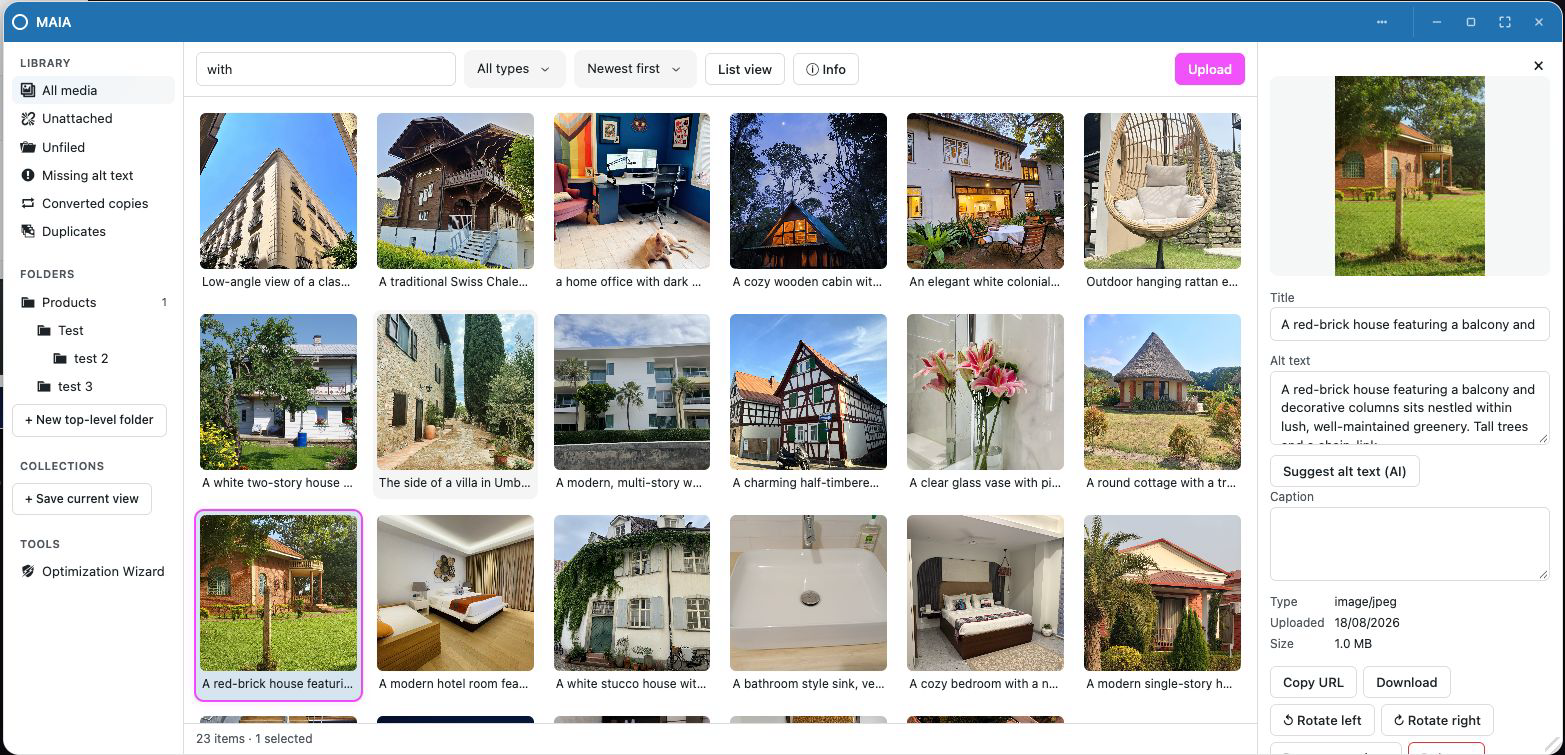
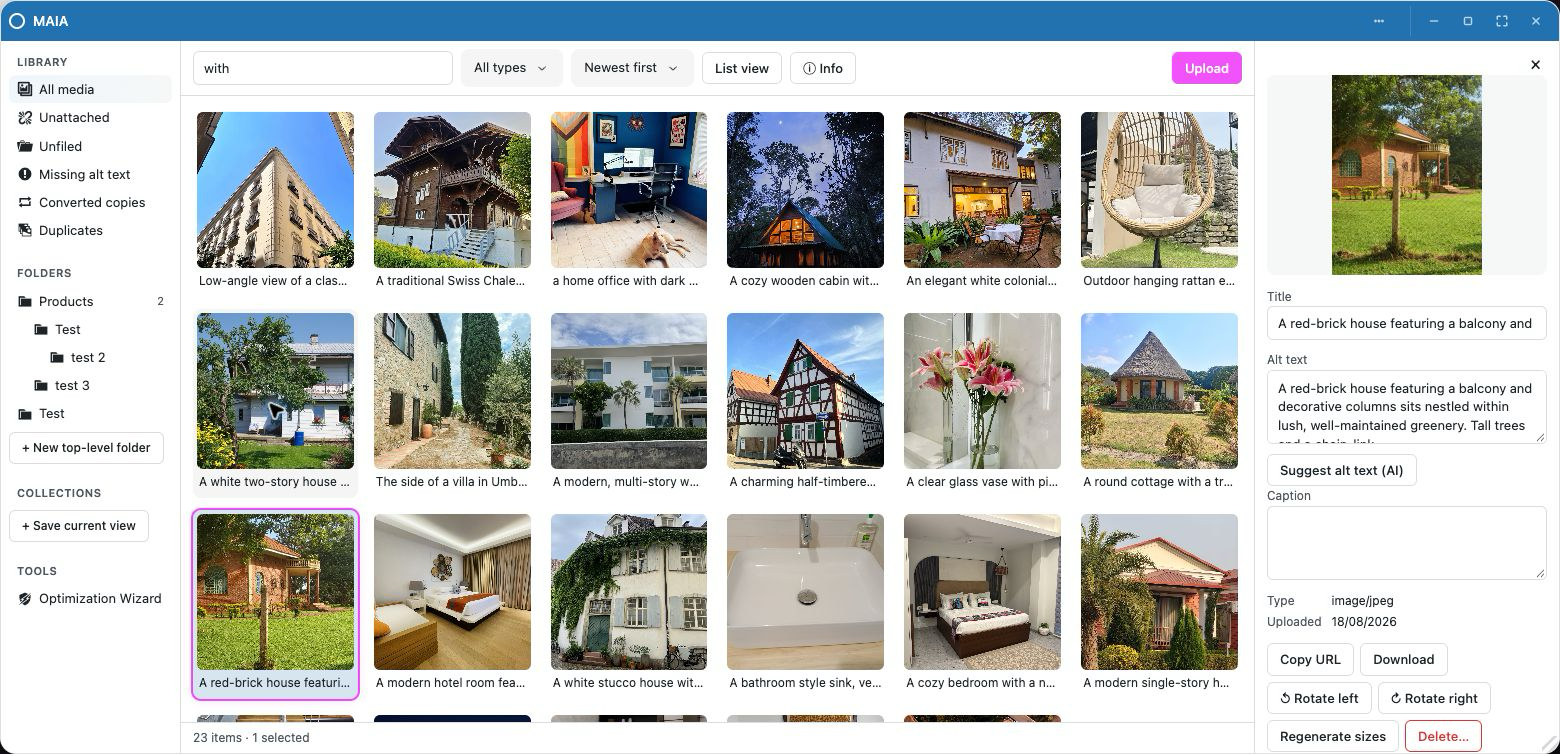
Count all readable folder media and simplify the README

diff --git a/tests/phpunit/tests/usageAndFolders.php b/tests/phpunit/tests/usageAndFolders.php
@@ -131,6 +131,81 @@ class Tests_ATME_Usage_And_Folders extends WP_UnitTestCase {
 	}
 
 	/**
+	 * @covers ::atme_folder_tree
+	 */
+	public function test_folder_counts_match_media_for_unattached_and_draft_parent_files() {
+		$folder = atme_create_folder( 'Products' );
+		foreach ( array( 0, self::factory()->post->create( array( 'post_status' => 'publish' ) ), self::factory()->post->create( array( 'post_status' => 'draft' ) ) ) as $parent ) {
+			$attachment = self::factory()->attachment->create( array( 'post_parent' => $parent, 'post_status' => 'inherit' ) );
+			atme_file_into_folder( array( $attachment ), $folder );
+		}
+		$request = new WP_REST_Request( 'GET', '/wp/v2/media' );
+		$request->set_param( 'atme-folders', $folder );
+		$response = rest_do_request( $request );
+		$this->assertSame( 200, $response->get_status() );
+		$this->assertCount( 3, $response->get_data() );
+		$rows = array_column( atme_folder_tree(), null, 'id' );
+		$this->assertSame( count( $response->get_data() ), $rows[ $folder ]['count'] );
+	}
+
+	/**
+	 * @covers ::atme_folder_tree
+	 */
+	public function test_folder_counts_are_direct_and_refresh_after_membership_and_status_changes() {
+		$folder = atme_create_folder( 'Products' );
+		$child  = atme_create_folder( 'Summer', $folder );
+		$empty  = atme_create_folder( 'Empty' );
+		$first  = self::factory()->attachment->create( array( 'post_status' => 'inherit' ) );
+		$second = self::factory()->attachment->create( array( 'post_status' => 'inherit' ) );
+		atme_file_into_folder( array( $first ), $folder );
+		atme_file_into_folder( array( $first, $second ), $child );
+		$rows = array_column( atme_folder_tree(), null, 'id' );
+		$this->assertSame( 1, $rows[ $folder ]['count'] );
+		$this->assertSame( 2, $rows[ $child ]['count'] );
+		$this->assertSame( 0, $rows[ $empty ]['count'] );
+		atme_unfile_from_folder( array( $first ), $folder );
+		wp_update_post( array( 'ID' => $second, 'post_status' => 'trash' ) );
+		$rows = array_column( atme_folder_tree(), null, 'id' );
+		$this->assertSame( 0, $rows[ $folder ]['count'] );
+		$this->assertSame( 1, $rows[ $child ]['count'] );
+		wp_update_post( array( 'ID' => $second, 'post_status' => 'inherit' ) );
+		$rows = array_column( atme_folder_tree(), null, 'id' );
+		$this->assertSame( 2, $rows[ $child ]['count'] );
+	}
+
+	/**
+	 * @covers ::atme_folder_tree
+	 */
+	public function test_folder_counts_include_memberships_beyond_the_first_batch() {
+		$folder = atme_create_folder( 'Large folder' );
+		$files  = self::factory()->attachment->create_many( 501, array( 'post_status' => 'inherit' ) );
+		atme_file_into_folder( $files, $folder );
+		$rows = array_column( atme_folder_tree(), null, 'id' );
+		$this->assertSame( 501, $rows[ $folder ]['count'] );
+	}
+
+	/**
+	 * @covers ::atme_folder_tree
+	 */
+	public function test_folder_counts_do_not_reveal_media_hidden_by_rest_read_permissions() {
+		$owner  = get_current_user_id();
+		$folder = atme_create_folder( 'Private project' );
+		$parent = self::factory()->post->create( array( 'post_status' => 'private', 'post_author' => $owner ) );
+		$file   = self::factory()->attachment->create( array( 'post_status' => 'inherit', 'post_parent' => $parent, 'post_author' => $owner ) );
+		atme_file_into_folder( array( $file ), $folder );
+		$rows = array_column( atme_folder_tree(), null, 'id' );
+		$this->assertSame( 1, $rows[ $folder ]['count'] );
+		wp_set_current_user( self::factory()->user->create( array( 'role' => 'author' ) ) );
+		$request = new WP_REST_Request( 'GET', '/wp/v2/media' );
+		$request->set_param( 'atme-folders', $folder );
+		$response = rest_do_request( $request );
+		$this->assertSame( 200, $response->get_status() );
+		$this->assertCount( 0, $response->get_data() );
+		$rows = array_column( atme_folder_tree(), null, 'id' );
+		$this->assertSame( 0, $rows[ $folder ]['count'] );
+	}
+
+	/**
 	 * @covers ::atme_register_content_model
 	 */
 	public function test_folder_rest_deletion_keeps_media_and_promotes_children() {

diff --git a/includes/folders.php b/includes/folders.php
@@ -15,6 +15,10 @@ defined( 'ABSPATH' ) || exit;
 /**
  * The folder tree, shaped for the sidebar.
  *
+ * Counts cover readable media filed directly in each folder, independently of
+ * the active search. Core term counts use publishing rules that can exclude
+ * unattached media and attachments whose parent is a draft.
+ *
  * @since 0.1.0
  *
  * @return array[] Flat rows of {id, name, parent, count}; the client nests them.
@@ -31,6 +35,51 @@ function atme_folder_tree() {
 		return array();
 	}
 
+	$counts = array_fill_keys( wp_list_pluck( $terms, 'term_id' ), 0 );
+
+	if ( $terms ) {
+		// Use the media collection's default status and read permission rules.
+		// Batch the tree together, avoiding a count query per folder or loading
+		// the whole library (including attachment metadata) into memory at once.
+		$controller = new WP_REST_Attachments_Controller();
+		$page       = 1;
+		do {
+			$query = new WP_Query(
+				array(
+					'post_type'              => 'attachment',
+					'post_status'            => 'inherit',
+					'posts_per_page'         => 500,
+					'paged'                  => $page++,
+					'orderby'                => 'ID',
+					'order'                  => 'ASC',
+					'no_found_rows'          => true,
+					'update_post_meta_cache' => false,
+					// phpcs:ignore WordPress.DB.SlowDBQuery.slow_db_query_tax_query -- Indexed folder membership is required; read in 500-item batches without metadata or total-row queries.
+					'tax_query'              => array(
+						array(
+							'taxonomy' => ATME_FOLDER_TAX,
+							'operator' => 'EXISTS',
+						),
+					),
+				)
+			);
+			foreach ( $query->posts as $attachment ) {
+				if ( ! $controller->check_read_permission( $attachment ) ) {
+					continue;
+				}
+				$memberships = get_the_terms( $attachment, ATME_FOLDER_TAX );
+				if ( ! $memberships || is_wp_error( $memberships ) ) {
+					continue;
+				}
+				foreach ( $memberships as $membership ) {
+					if ( isset( $counts[ $membership->term_id ] ) ) {
+						++$counts[ $membership->term_id ];
+					}
+				}
+			}
+		} while ( 500 === $query->post_count );
+	}
+
 	$rows = array();
 
 	foreach ( $terms as $term ) {
@@ -38,7 +87,7 @@ function atme_folder_tree() {
 			'id'     => (int) $term->term_id,
 			'name'   => $term->name,
 			'parent' => (int) $term->parent,
-			'count'  => (int) $term->count,
+			'count'  => $counts[ $term->term_id ],
 		);
 	}
 

diff --git a/README.md b/README.md
@@ -1,5 +1,3 @@
-<div align="center">
-
 ![MAIA — Your media, in good order. By AllTerrain.](.wordpress-org/banner-1544x500.png)
 
 # MAIA
@@ -16,8 +14,6 @@
 Find it. File it. Make it ready for your next post.
 
 [Get started](#get-started) · [Screenshots](#a-look-around) · [Developers](#development) · [Releasing](docs/releasing.md)
-
-</div>
 
 MAIA brings folders, a dedicated image viewer and practical media tools to the
 [OpenStation](https://wordpress.org/plugins/desktop-mode/) desktop. Your existing
@@ -116,34 +112,9 @@ TypeScript with a plugin-local Vite build. WordPress supplies the PHP APIs; ther
 is no production Composer dependency. Bundled JavaScript includes exifr (MIT)
 and jSquash's AVIF encoder (Apache-2.0); notices ship in `assets/licenses/`.
 
-### Testing
-
-Vitest covers the interface and request lifecycle. PHP integration tests cover
-the WordPress data layer and the real OpenStation App Framework. `npm run test:php`
-fails if no test backend is available; see [test setup](docs/releasing.md#local-checks)
-for wp-env. CI uses a pinned OpenStation framework fixture. The local integration
-site is **http://localhost:8889**.
-
-### Releases and artwork
-
-```bash
-npm run artwork:build            # export the four directory banner/icon PNGs
-npm run artwork:check            # compare PNGs to sources without changing files
-npm run plugin:check             # WordPress Plugin Check (needs wp-env)
-npm run plugin:release           # build, JS/PHP tests, Plugin Check and ZIP; does not publish
-npm run bump-version -- 0.1.1    # update version files only; does not commit or tag
-npm run release -- 0.1.1         # publish from main after changelog review and green CI
-```
-
-The release helpers follow the same workflow as AllTerrain Photo Editor. Tag
-releases attach the ZIP on GitHub; stable tags also deploy to WordPress.org once
-approval and SVN credentials are in place. See [the release guide](docs/releasing.md)
-for first submission, retries and credentials. Listing artwork and screenshots
-are staged separately in `dist/assets/`, never included in the plugin ZIP.
-
-The cream grid, serif wordmark and terracotta/sage palette follow the AllTerrain
-family. [Editable artwork and font licenses](docs/artwork/README.md) are included.
-The screenshots show the real MAIA interface on the local demo site.
+Testing, release commands and artwork maintenance are documented in the
+[developer guide](docs/README.md), [release guide](docs/releasing.md) and
+[artwork sources](docs/artwork/README.md).
 
 ### Plugin integration
 

diff --git a/docs/review-2026-09.md b/docs/review-2026-09.md
@@ -68,6 +68,13 @@ See [architecture](architecture.md), [JavaScript](javascript.md),
   native confirmation fallbacks are removed. Folder deletion uses the existing
   WordPress term endpoint, with permission and media/child-preservation tests.
 
+- Folder badges used WordPress's stored publication-based term count, which
+  excluded the unattached Products image while the grid displayed it. Counts now
+  use current direct membership, the media collection status and REST read
+  permissions. Regression tests cover unattached and draft-parent images,
+  child/multiple-folder membership, trash/restore, private parents and batches
+  beyond 500 attachments. Live Products now shows 2 for its two images.
+
 ## WordPress.org release preparation
 
 - Ported the version-bump and release helpers from AllTerrain Photo Editor.
@@ -92,11 +99,13 @@ See [architecture](architecture.md), [JavaScript](javascript.md),
 
 - TypeScript: `npm run typecheck` passed.
 - JavaScript: 110 tests passed across 13 files.
-- PHP: 60 tests, 235 assertions passed on the `wordpress-alcazaba` test database.
+- PHP: 64 tests, 249 assertions passed on the `wordpress-alcazaba` test database.
   Includes real App Framework loading/dispatch, mount/reopen, subscriber and
   anonymous gates, object permissions, batch authorization, private queues,
   malicious replacement files and version history integrity.
-- Plugin Check 2.1.0: no blocking findings and no accepted exemptions.
+- Plugin Check 2.1.0: no blocking findings. The folder count query has a scoped
+  slow-query sniff annotation: taxonomy membership is required and uses indexed
+  relationships in 500-item batches, without metadata or found-row queries.
 - All six readable/production bundles rebuilt; package generated and checked
   for both `.os.php` definitions, client/runtime assets and license files.
 - Browser QA at **http://localhost:8889/wp-admin/**: library loads; image opens

diff --git a/docs/architecture.md b/docs/architecture.md
@@ -108,6 +108,21 @@ callbacks must never overwrite framework renderers when the runtime loaded
 through a different app first. Both paths use open-time params for cold opens;
 legacy broadcasts still support retargeting already-open native windows.
 
+## Folder counts
+
+The sidebar `count` in `GET /atme/v1/folders` is the number of readable media
+attachments filed **directly** in that folder. It includes unattached files and
+files belonging to draft posts when the current user can read them, and excludes
+trashed files and media hidden by WordPress REST read permissions. Child-folder
+media is counted only in its own folders; a file assigned to multiple folders
+counts once in each. Search and type filters narrow the grid, not these totals.
+
+Counts are computed from current attachment membership in batches using the
+media collection's `inherit` status and WordPress's attachment REST controller
+read checks. They do not use WordPress's stored taxonomy count, whose publication
+rules can omit media shown in the library. Existing sites need no recount or
+migration; the next folder-tree request returns the corrected totals.
+
 ## Folder filing feedback
 
 The explorer owns pending folder writes per mounted window. Sidebar drops,

diff --git a/docs/README.md b/docs/README.md
@@ -36,3 +36,14 @@ duplicates, folders. The explorer itself is a **native OpenStation window**;
 its tiles emit the shell's own `shortcut` drag payload with a
 `bridgePayload`, which is why drops into Gutenberg, kanban cards and image
 fields work without those plugins knowing this one exists.
+
+## Testing and release maintenance
+
+Vitest covers interface behavior and request lifecycles. PHP integration tests
+cover the WordPress data layer and the real OpenStation App Framework. The PHP
+runner fails if no test backend is available; CI uses a pinned framework fixture.
+The local Docker integration site is http://localhost:8889.
+
+See [local checks and release commands](releasing.md#local-checks) for test
+backends, version bumps and publishing, and [artwork maintenance](artwork/README.md)
+for banner/icon exports and screenshot requirements.
